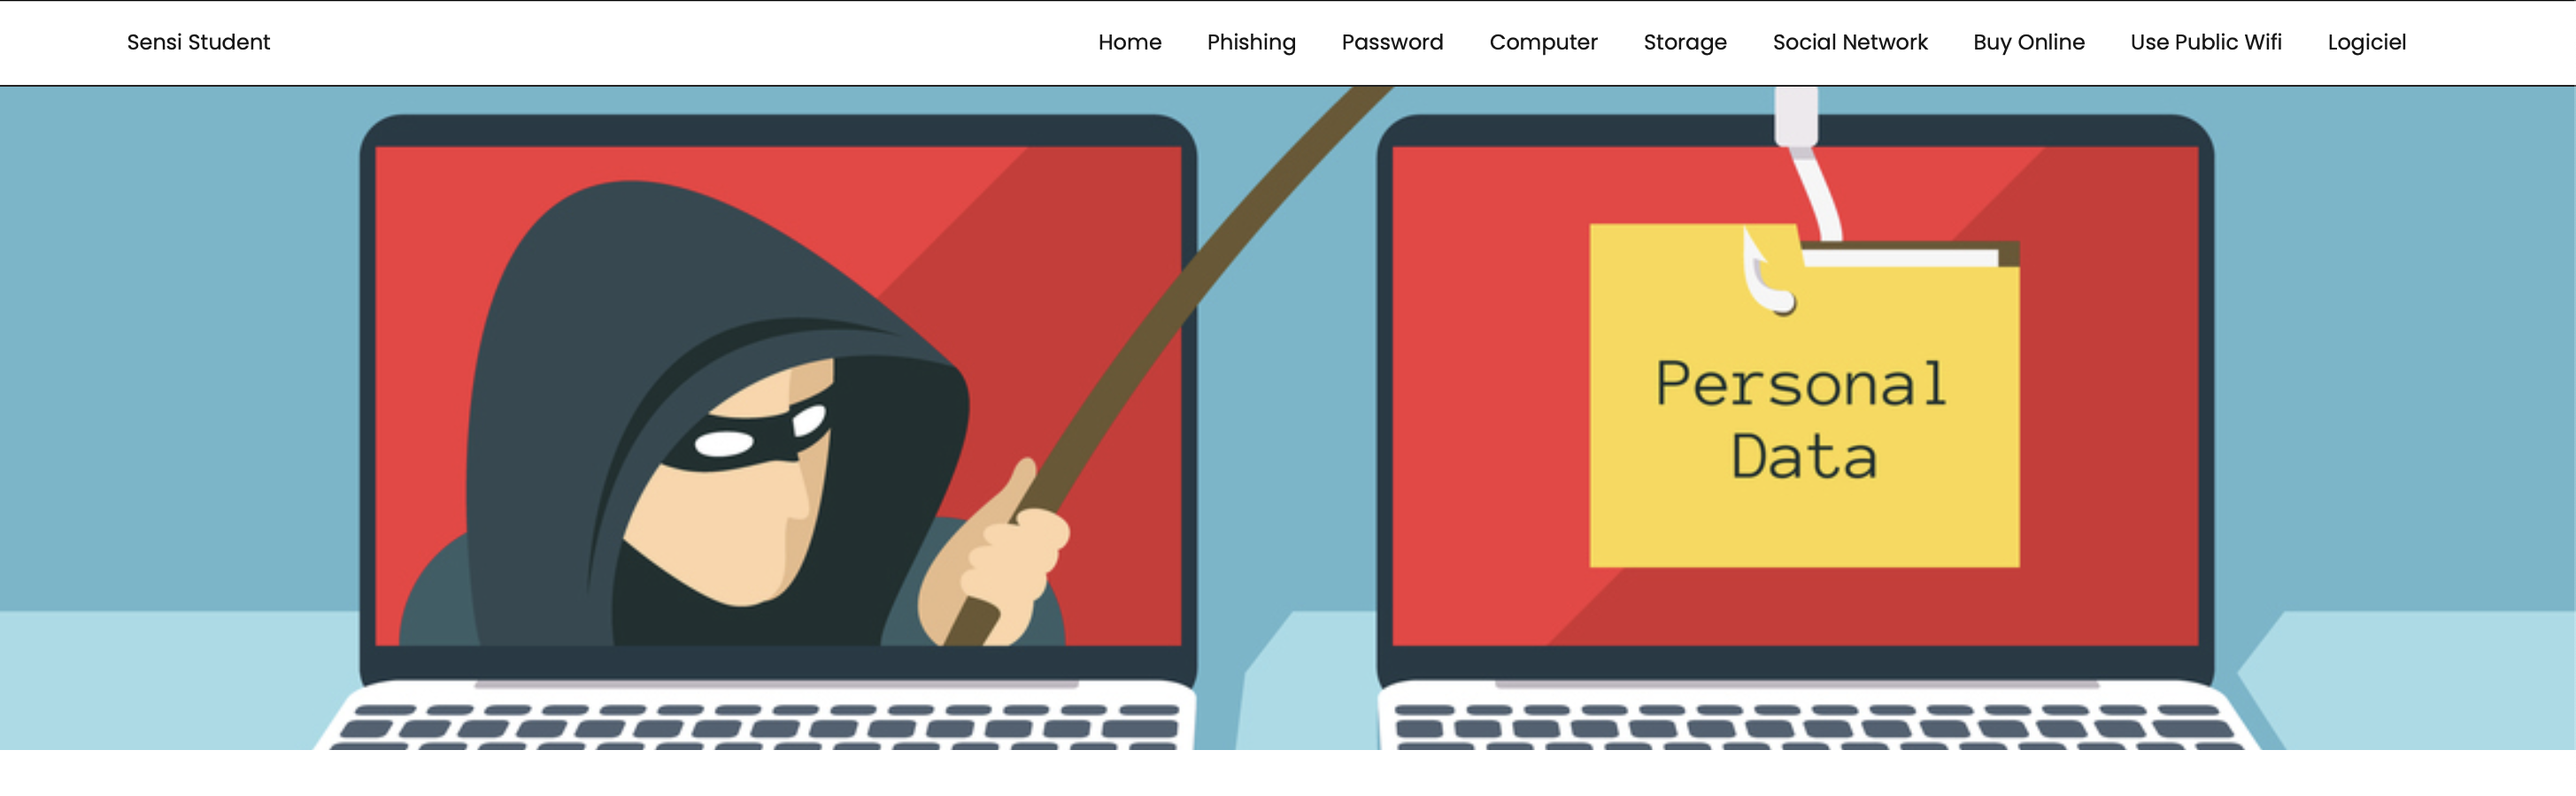
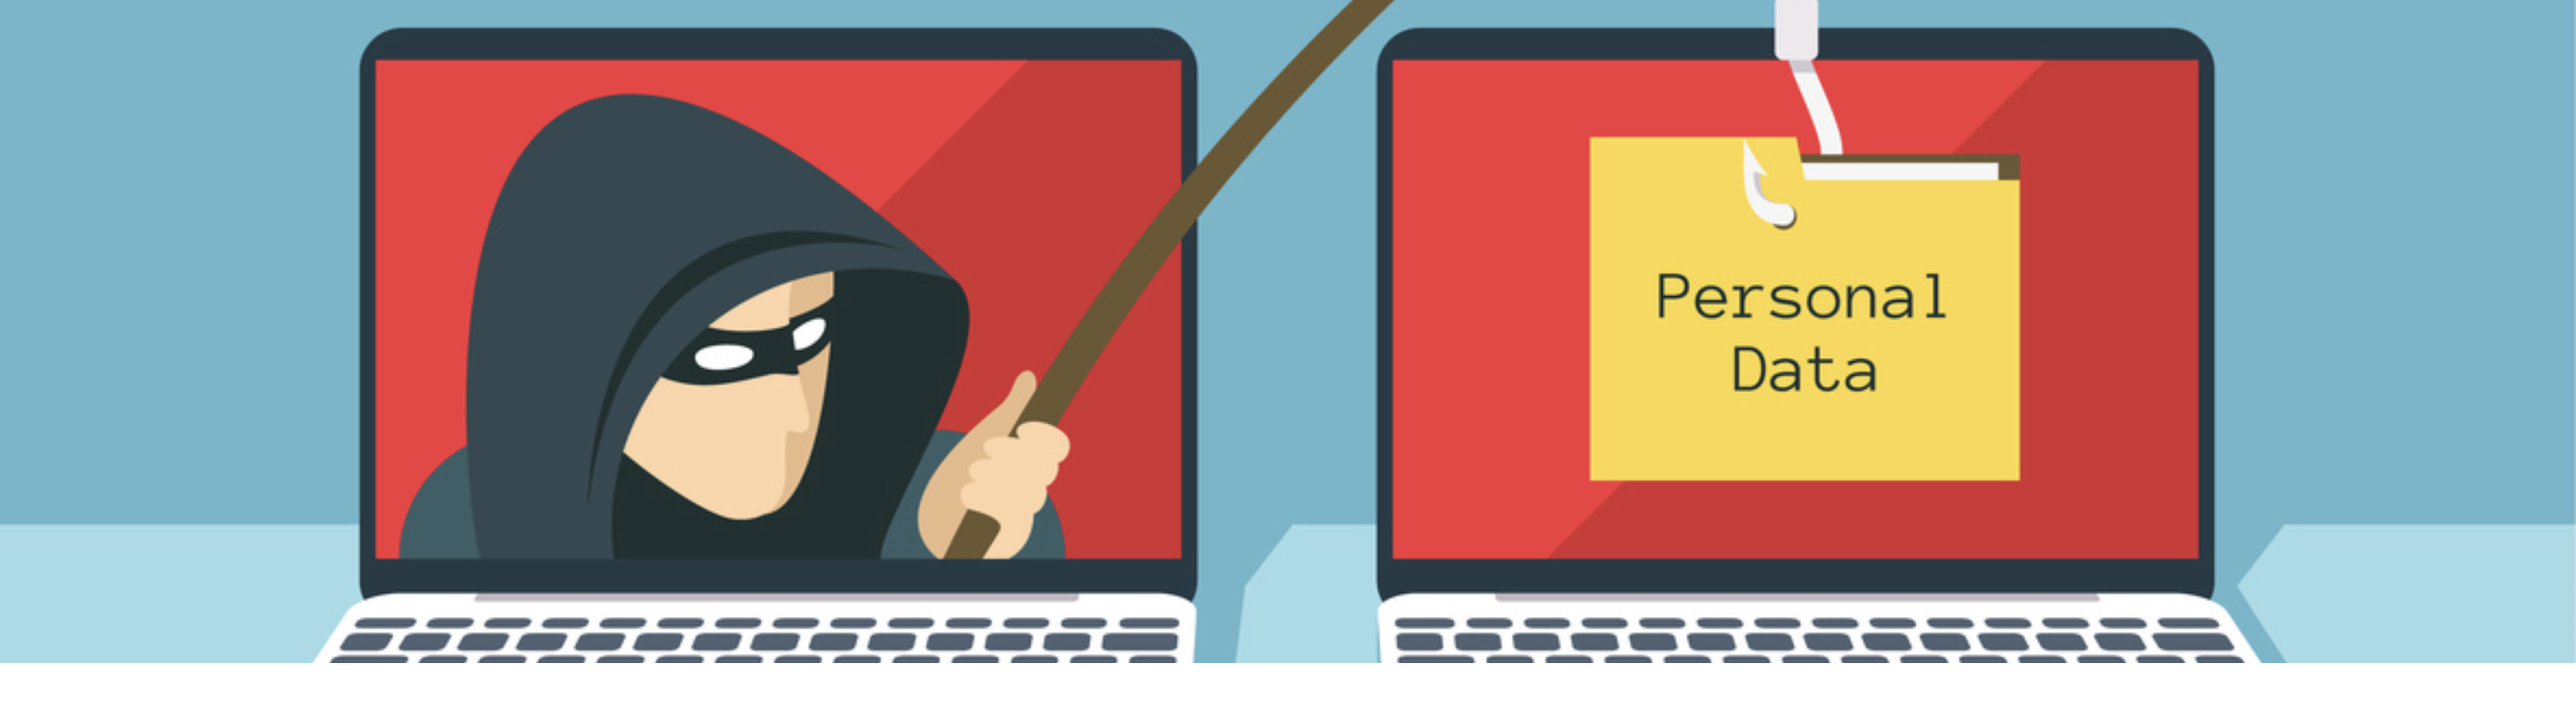
template

diff --git a/src/page/social-network.html b/src/page/social-network.html
@@ -1,26 +1,43 @@
 <head>
-    <rel="stylesheet" href="../css/social-network.css">
+    <meta charset="utf-8">
+    <title>Change Password</title>
+    <link rel="stylesheet" href="../css/styles.css">
 </head>
+<header>
+    <img id="img" src="../resource/image/E.png">
+    
+    <div id="links">
+        <a href="../index.html" class="redirection_link">Accueil</a>
+        <a href="mdp.html" class="redirection_link">Mot de passe</a>
+        <a href="../index.html" class="redirection_link">Home</a>
+        <a href="../index.html" class="redirection_link">Home</a>
+        <a href="../index.html" class="redirection_link">Home</a>
+        <a href="../index.html" class="redirection_link">Home</a>
+        <a href="../index.html" class="redirection_link">Home</a>
+    </div>
+</header>
 
 <body>
-    <img style="max-width: 100%;height: auto;display: block;" src="../resource/image/Capture_decran_2023-04-13_a_14.46.48.png">
+    <img style="width: 102%;height: auto; display: block; margin: -8px; margin-top: -11px" src="../resource/image/Capture_decran_2023-04-13_a_14.46.48.png">
 
-    <h1 style="padding-left: 70px;">Lorem Ipsum</h1>
-    <div style="
-        margin-left: auto;
-        margin-right: auto;
-        padding-left: 80px;
-        padding-right: 80px;
-    ">
-        <p style="font-size: large; text-align: justify;">Lorem ipsum dolor sit amet, consectetur adipiscing elit. Morbi volutpat commodo lorem in sagittis. Nulla mollis felis in nisi mattis cursus. Morbi lacinia elit et nulla ornare, sed finibus lorem condimentum. Suspendisse sem odio, porttitor vitae semper id, vulputate venenatis quam. Cras tempor nisl vitae velit pellentesque, a mattis odio tristique. Nulla luctus ante quam, quis facilisis lorem eleifend sit amet. Integer efficitur diam posuere elementum elementum. Nam sed efficitur ligula, eu mollis mauris. Sed faucibus non sapien mollis venenatis. Nam volutpat urna non efficitur bibendum.
+    <div class="flex-container">
+        <div class="flex-column">
+            <p><h3>HELLO</h3>um suscipit, mi libero mattetra tristique lacus. Cras massa magna, facilisis non nisl ac, mollis interdum orci. Integer efficitur, urna vel maximus porta, est nunc efficitur nisi, dapibus vehicula metus nulla nec massa. In commodo posuere enim. Suspendisse eleifend, ipsum vel euismod hendrerit, odio nisl dictum ante, eu accumsan augue arcu vel dui. Nunc vitae lorem vitae sem consectetur porttitor in non nulla. Mauris augue sapien, ullamcorper ut ligula ut, pellentesque feugiat nunc. Maecenas gravida tristique sapien at tincidunt. In rhoncus ipsum diam. Cras pharetra, purus ut facilisis sollicitudin, neque purus consectetur lorem, porta aliquam quam tellus non ante. Nullam ac lacinia tortor. Morbi rhoncus aliquam varius. Sed auctor, augue ut tempor laoreet, purus dui convallis sapien, id dignissim risus eros eu arcu. Proin sit amet lobortis leo. Pellentesque consectetur odio ut mattis tempor.</p>
+            <p><h3>HELLO</h3>um suscipit, mi libero mattis leetra tristique lacus. Cras massa magna, facilisis non nisl ac, mollis interdum orci. Integer efficitur, urna vel maximus porta, est nunc efficitur nisi, dapibus vehicula metus nulla nec massa. In commodo posuere enim. Suspendisse eleifend, ipsum vel euismod hendrerit, odio nisl dictum ante, eu accumsan augue arcu vel dui. Nunc vitae lorem vitae sem consectetur porttitor in non nulla. Mauris augue sapien, ullamcorper ut ligula ut, pellentesque feugiat nunc. Maecenas gravida tristique sapien at tincidunt. In rhoncus ipsum diam. Cras pharetra, purus ut facilisis sollicitudin, neque purus consectetur lorem, porta aliquam quam tellus non ante. Nullam ac lacinia tortor. Morbi rhoncus aliquam varius. Sed auctor, augue ut tempor laoreet, purus dui convallis sapien, id dignissim risus eros eu arcu. Proin sit amet lobortis leo. Pellentesque consectetur odio ut mattis tempor.</p>
+            <p><h3>HELLO</h3>umn nisl ac, mollis interdum orci. Integer efficitur, urna vel maximus porta, est nunc efficitur nisi, dapibus vehicula metus nulla nec massa. In commodo posuere enim. Suspendisse eleifend, ipsum vel euismod hendrerit, odio nisl dictum ante, eu accumsan augue arcu vel dui. Nunc vitae lorem vitae sem consectetur porttitor in non nulla. Mauris augue sapien, ullamcorper ut ligula ut, pellentesque feugiat nunc. Maecenas gravida tristique sapien at tincidunt. In rhoncus ipsum diam. Cras pharetra, purus ut facilisis sollicitudin, neque purus consectetur lorem, porta aliquam quam tellus non ante. Nullam ac lacinia tortor. Morbi rhoncus aliquam varius. Sed auctor, augue ut tempor laoreet, purus dui convallis sapien, id dignissim risus eros eu arcu. Proin sit amet lobortis leo. Pellentesque consectetur odio ut mattis tempor.</p>
+        </div>
 
-            Suspendisse potenti. Pellentesque pellentesque lacus gravida pharetra auctor. Vivamus faucibus consectetur ultrices. Nam faucibus ligula vel placerat placerat. Cras viverra accumsan nisi, eget commodo diam interdum quis. Quisque sagittis aliquam sem ac pellentesque. Phasellus ut pharetra leo. Donec aliquam efficitur velit, at iaculis tortor lobortis in.
-            
-            Nam scelerisque ex fermentum nisl posuere, ac posuere justo aliquam. Aenean bibendum dapibus auctor. Vivamus id tortor lacinia, ultricies erat vel, efficitur nisl. Duis eget lacinia urna. Interdum et malesuada fames ac ante ipsum primis in faucibus. Cras ac pretium ipsum, vel gravida sem. Duis sagittis ultrices ex a ornare. Cras gravida feugiat quam, in fringilla eros pharetra at. Suspendisse dignissim sapien a nisi viverra malesuada. Duis purus libero, placerat eget augue vitae, posuere rutrum enim. Pellentesque lacinia risus neque. Proin commodo est eget maximus faucibus. Phasellus fermentum, orci nec gravida auctor, nulla tortor porta metus, quis fermentum quam mauris a tortor. Lorem ipsum dolor sit amet, consectetur adipiscing elit. Aliquam a scelerisque odio, sit amet luctus velit.
-            
-            Cras ut imperdiet arcu, ac maximus mi. Donec quis vehicula velit. Mauris vitae viverra odio. Phasellus a volutpat enim. Quisque sapien mauris, vulputate vel ex ut, tristique congue metus. Nulla dapibus commodo leo, consectetur fringilla augue pharetra eu. Proin sed ex elit. Nulla porttitor, libero non bibendum suscipit, mi libero mattis lectus, ut blandit tellus sapien vitae ligula.
-            
-            Mauris arcu sem, egestas a nibh eu, pharetra tristique lacus. Cras massa magna, facilisis non nisl ac, mollis interdum orci. Integer efficitur, urna vel maximus porta, est nunc efficitur nisi, dapibus vehicula metus nulla nec massa. In commodo posuere enim. Suspendisse eleifend, ipsum vel euismod hendrerit, odio nisl dictum ante, eu accumsan augue arcu vel dui. Nunc vitae lorem vitae sem consectetur porttitor in non nulla. Mauris augue sapien, ullamcorper ut ligula ut, pellentesque feugiat nunc. Maecenas gravida tristique sapien at tincidunt. In rhoncus ipsum diam. Cras pharetra, purus ut facilisis sollicitudin, neque purus consectetur lorem, porta aliquam quam tellus non ante. Nullam ac lacinia tortor. Morbi rhoncus aliquam varius. Sed auctor, augue ut tempor laoreet, purus dui convallis sapien, id dignissim risus eros eu arcu. Proin sit amet lobortis leo. Pellentesque consectetur odio ut mattis tempor.</p>
-    
+        <div class="flex-column">
+            <p><h3>HELLO</h3>um suscipit, mi liberretra tristique lacus. Cras massa magna, facilisis non nisl ac, mollis interdum orci. Integer efficitur, urna vel maximus porta, est nunc efficitur nisi, dapibus vehicula metus nulla nec massa. In commodo posuere enim. Suspendisse eleifend, ipsum vel euismod hendrerit, odio nisl dictum ante, eu accumsan augue arcu vel dui. Nunc vitae lorem vitae sem consectetur porttitor in non nulla. Mauris augue sapien, ullamcorper ut ligula ut, pellentesque feugiat nunc. Maecenas gravida tristique sapien at tincidunt. In rhoncus ipsum diam. Cras pharetra, purus ut facilisis sollicitudin, neque purus consectetur lorem, porta aliquam quam tellus non ante. Nullam ac lacinia tortor. Morbi rhoncus aliquam varius. Sed auctor, augue ut tempor laoreet, purus dui convallis sapien, id dignissim risus eros eu arcu. Proin sit amet lobortis leo. Pellentesque consectetur odio ut mattis tempor.</p>
+            <p><h3>HELLO</h3>um suscipit, mi libero mattis lectus, ut blandit tellus sapiestas a nibh eu, pharetra tristique lacus. Cras massa magna, facilisis non nisl ac, mollis interdum orci. Integer efficitur, urna vel maximus porta, est nunc efficitur nisi, dapibus vehicula metus nulla nec massa. In commodo posuere enim. Suspendisse eleifend, ipsum vel euismod hendrerit, odio nisl dictum ante, eu accumsan augue arcu vel dui. Nunc vitae lorem vitae sem consectetur porttitor in non nulla. Mauris augue sapien, ullamcorper ut ligula ut, pellentesque feugiat nunc. Maecenas gravida tristique sapien at tincidunt. In rhoncus ipsum diam. Cras pharetra, purus ut facilisis sollicitudin, neque purus consectetur lorem, porta aliquam quam tellus non ante. Nullam ac lacinia tortor. Morbi rhoncus aliquam varius. Sed auctor, augue ut tempor laoreet, purus dui convallis sapien, id dignissim risus eros eu arcu. Proin sit amet lobortis leo. Pellentesque consectetur odio ut mattis tempor.</p>
+            <p><h3>HELLO</h3>um suscipit, mi libero mattis lectus, ut blandit tellus sapien vitae ligula. Mauris arcu sem, egestas a nibh eu, pharetra tristique lacus. Cras massa magna, facilisis non nisl ac, mollis interdum orci. Integer efficitur, urna vel maximus porta, est nunc efficitur nisi, dapibus vehicula metus nulla nec massa. In commodo posuere enim. Suspendisse eleifend, ipsum vel euismod hendrerit, odio nisl dictum ante, eu accumsan augue arcu vel dui. Nunc vitae lorem vitae sem consectetur porttitor in non nulla. Mauris augue sapien, ullamcorper ut ligula ut, pellentesque feugiat nunc. Maecenas gravida tristique sapien at tincidunt. In rhoncus ipsum diam. Cras pharetra, purus ut facilisis sollicitudin, neque purus consectetur lorem, porta aliquam quam tellus non ante. Nullam ac lacinia tortor. Morbi rhoncus aliquam varius. Sed auctor, augue ut tempor laoreet, purus dui convallis sapien, id dignissim risus eros eu arcu. Proin sit amet lobortis leo. Pellentesque consectetur odio ut mattis tempor.</p>
+        </div>
+
+        <div class="flex-column">
+            <p><h3>HELLO</h3>um suscipit, mi libero mattis lecttristique lacus. Cras massa magna, facilisis non nisl ac, mollis interdum orci. Integer efficitur, urna vel maximus porta, est nunc efficitur nisi, dapibus vehicula metus nulla nec massa. In commodo posuere enim. Suspendisse eleifend, ipsum vel euismod hendrerit, odio nisl dictum ante, eu accumsan augue arcu vel dui. Nunc vitae lorem vitae sem consectetur porttitor in non nulla. Mauris augue sapien, ullamcorper ut ligula ut, pellentesque feugiat nunc. Maecenas gravida tristique sapien at tincidunt. In rhoncus ipsum diam. Cras pharetra, purus ut facilisis sollicitudin, neque purus consectetur lorem, porta aliquam quam tellus non ante. Nullam ac lacinia tortor. Morbi rhoncus aliquam varius. Sed auctor, augue ut tempor laoreet, purus dui convallis sapien, id dignissim risus eros eu arcu. Proin sit amet lobortis leo. Pellentesque consectetur odio ut mattis tempor.</p>
+            <p><h3>HELLO</h3>um suscipit, mi libero mattis lectus, uretra tristique lacus. Cras massa magna, facilisis non nisl ac, mollis interdum orci. Integer efficitur, urna vel maximus porta, est nunc efficitur nisi, dapibus vehicula metus nulla nec massa. In commodo posuere enim. Suspendisse eleifend, ipsum vel euismod hendrerit, odio nisl dictum ante, eu accumsan augue arcu vel dui. Nunc vitae lorem vitae sem consectetur porttitor in non nulla. Mauris augue sapien, ullamcorper ut ligula ut, pellentesque feugiat nunc. Maecenas gravida tristique sapien at tincidunt. In rhoncus ipsum diam. Cras pharetra, purus ut facilisis sollicitudin, neque purus consectetur lorem, porta aliquam quam tellus non ante. Nullam ac lacinia tortor. Morbi rhoncus aliquam varius. Sed auctor, augue ut tempor laoreet, purus dui convallis sapien, id dignissim risus eros eu arcu. Proin sit amet lobortis leo. Pellentesque consectetur odio ut mattis tempor.</p>
+            <p><h3>HELLO</h3>um suscipit, mien vitae ligula. Mauris arcu sem, egestas a nsa magna, facilisis non nisl ac, mollis interdum orci. Integer efficitur, urna vel maximus porta, est nunc efficitur nisi, dapibus vehicula metus nulla nec massa. In commodo posuere enim. Suspendisse eleifend, ipsum vel euismod hendrerit, odio nisl dictum ante, eu accumsan augue arcu vel dui. Nunc vitae lorem vitae sem consectetur porttitor in non nulla. Mauris augue sapien, ullamcorper ut ligula ut, pellentesque feugiat nunc. Maecenas gravida tristique sapien at tincidunt. In rhoncus ipsum diam. Cras pharetra, purus ut facilisis sollicitudin, neque purus consectetur lorem, porta aliquam quam tellus non ante. Nullam ac lacinia tortor. Morbi rhoncus aliquam varius. Sed auctor, augue ut tempor laoreet, purus dui convallis sapien, id dignissim risus eros eu arcu. Proin sit amet lobortis leo. Pellentesque consectetur odio ut mattis tempor.</p>
+        </div>
     </div>
+
     </body>

diff --git a/src/css/styles.css b/src/css/styles.css
@@ -4,7 +4,7 @@ header{
     display: flex;
     justify-content: center;
     align-items: center;
-    background-color: #fff;
+    background-color: #ffffff;
     color: #000;
     font-family: 'Poppins', sans-serif;
     padding-top: 20px;
@@ -47,8 +47,35 @@ a{
     height: fit-content;
 }
 
-img {
+#img {
     padding: 10px;
     width: 270px;
     height: 120%;
 }
+
+.flex-container {
+    display: flex;
+    flex-direction: row;
+    text-justify: auto;
+  }
+
+.flex-column {
+    display: flex;
+    flex-direction: column;
+    text-justify: auto;
+    max-width: 800px;
+    padding: 80px;
+    text-justify: auto;
+  }
+  
+  .flex-item {
+    background-color: #f1f1f1;
+    padding: 30px;
+    flex: 50%;
+  }
+
+@media (max-width: 800px) {
+    .flex-container {
+      flex-direction: column;
+    }
+  }
